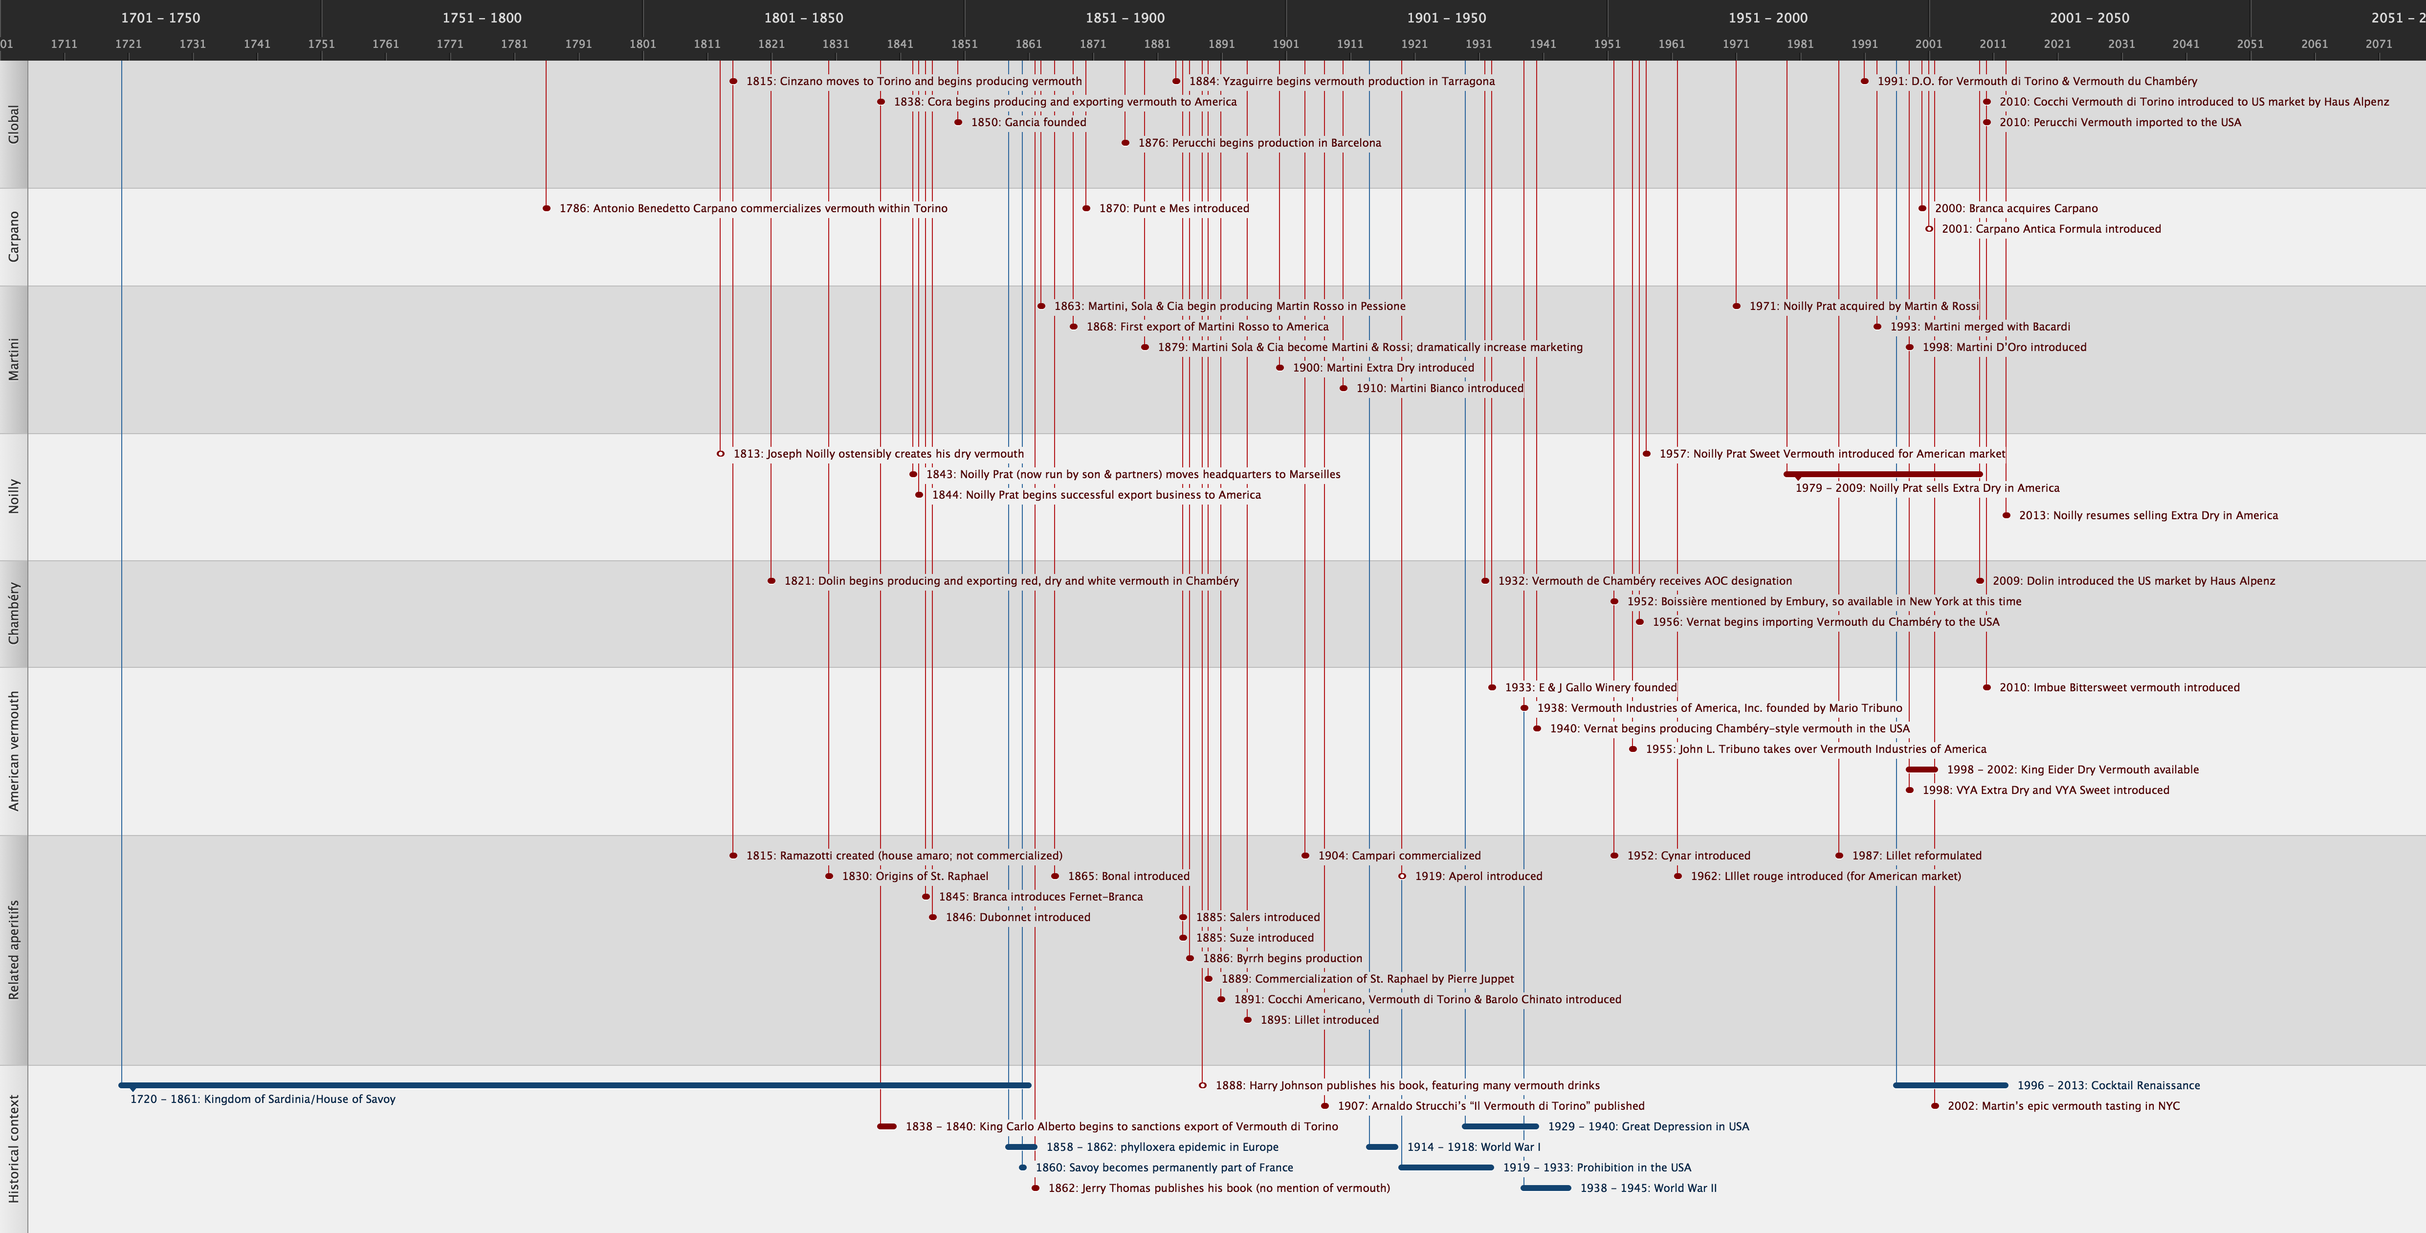
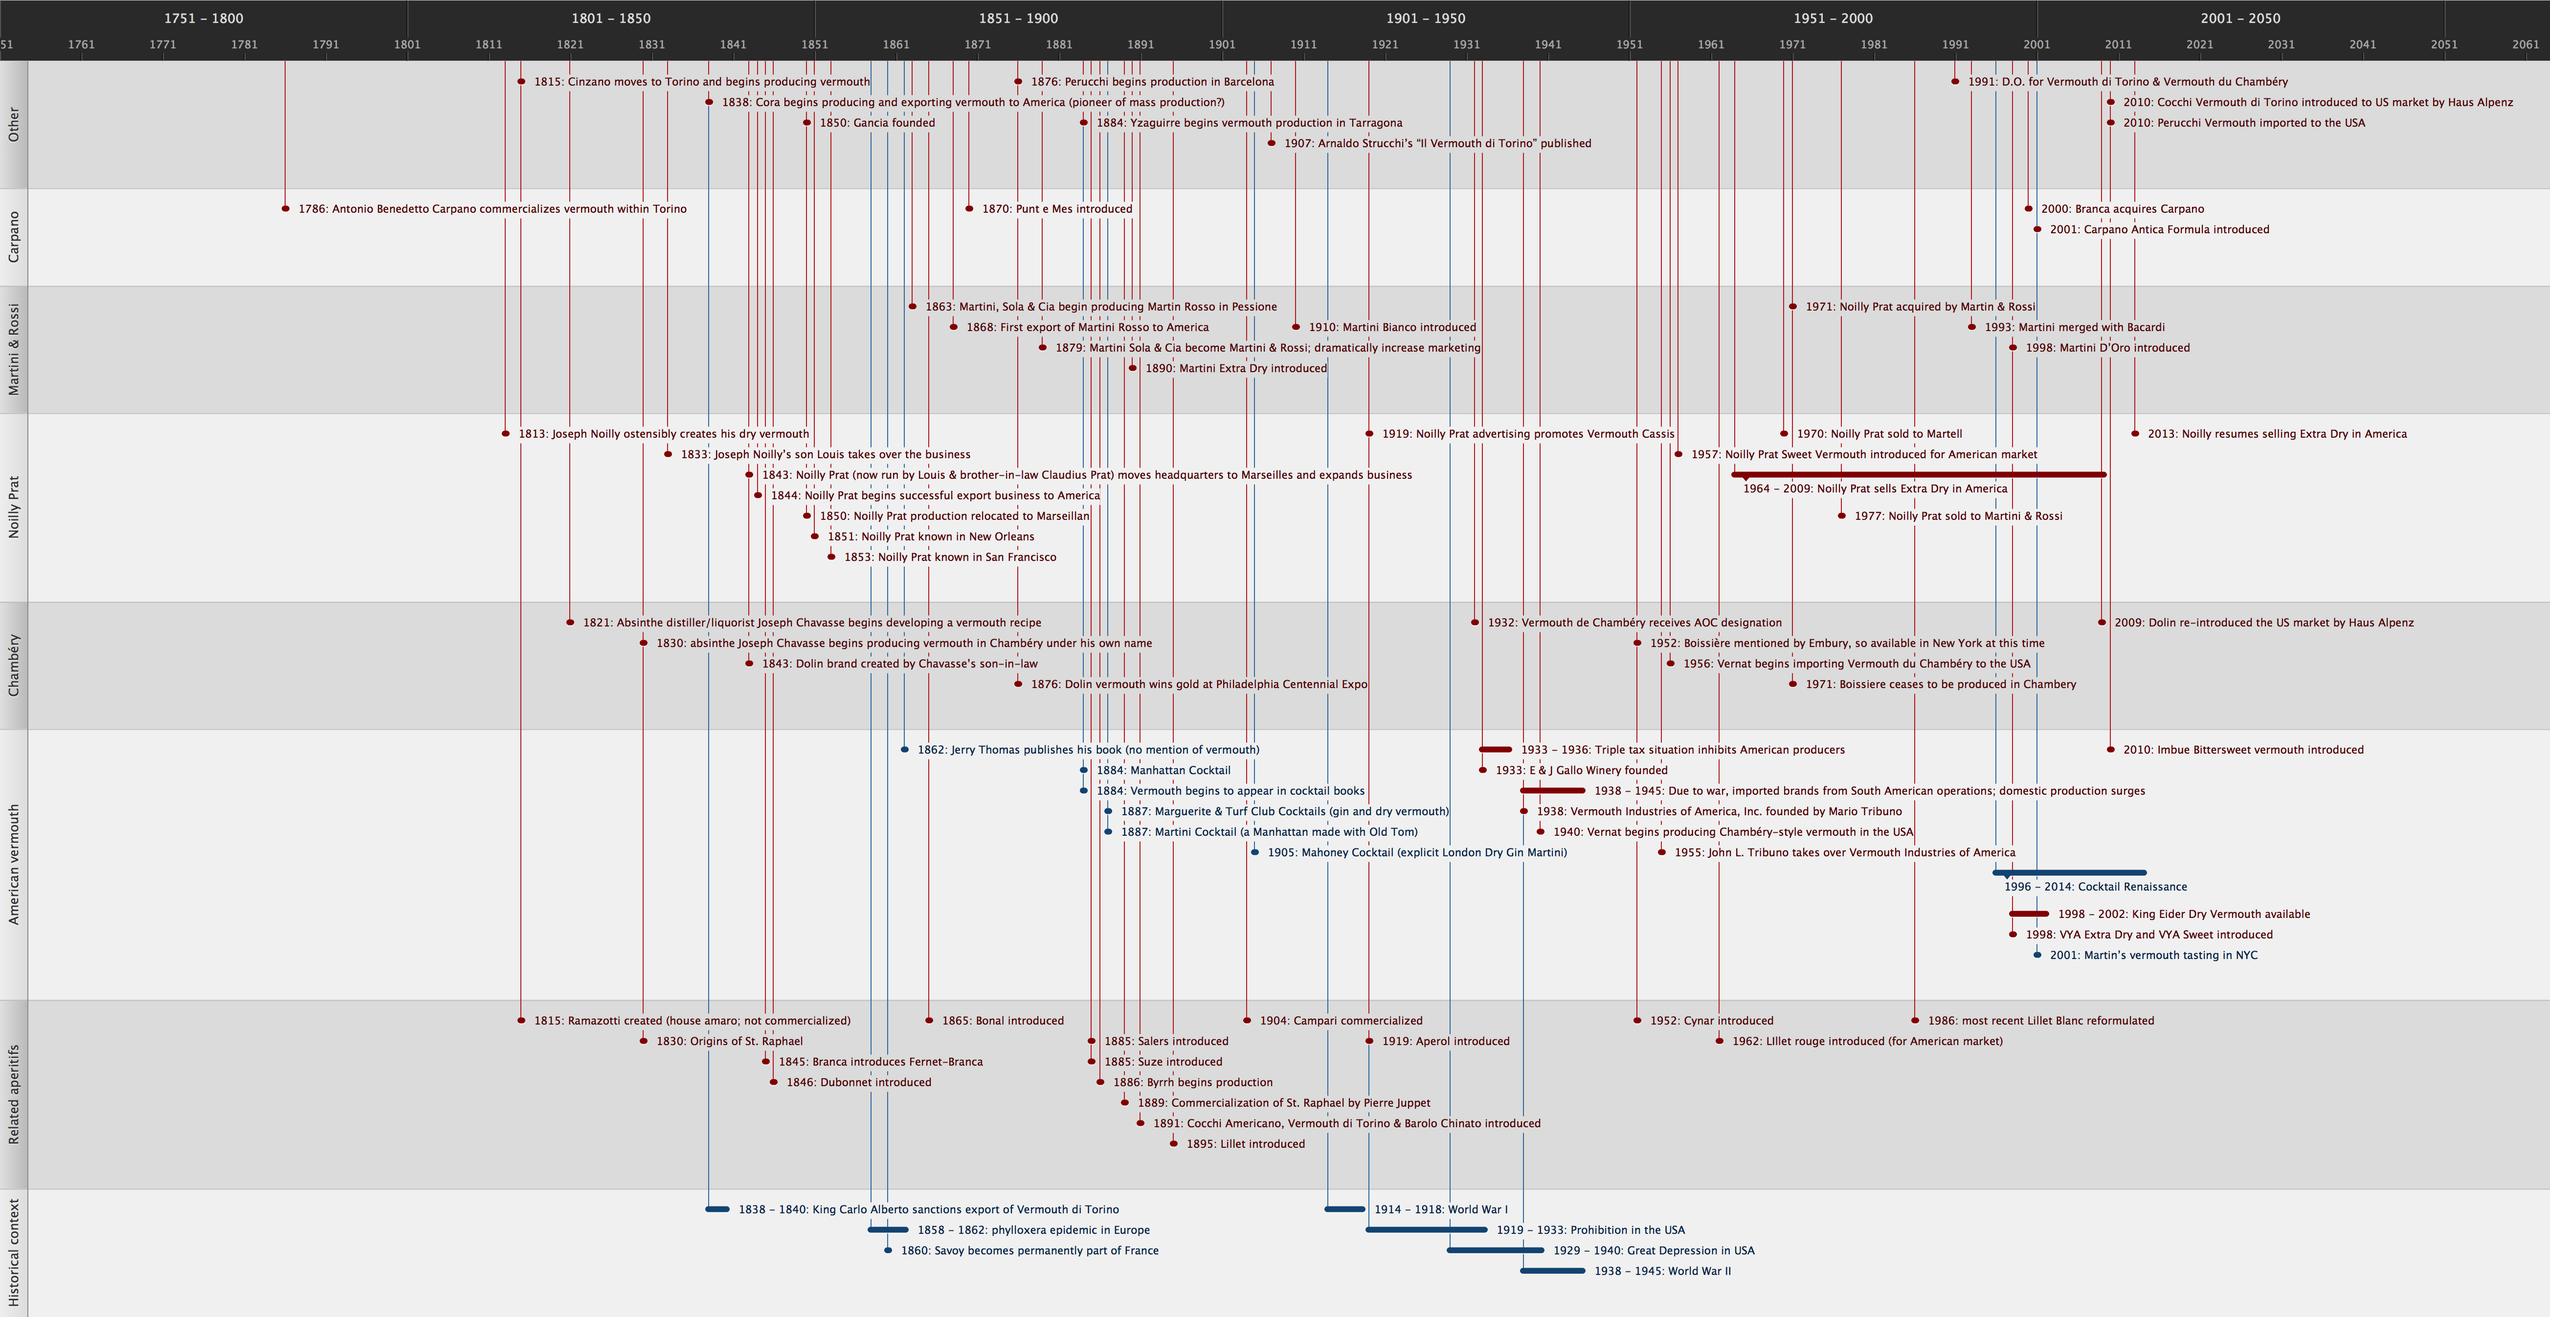
update

diff --git a/index.html b/index.html
@@ -39,21 +39,6 @@
 </div>
 <h1>Vermouth 101</h1>
 <section class="hyphenate">
-
-<h2>Preface, April 2014</h2>
-<p>When I started vermouth101.com four years ago, the vermouth market was different than today. After many years of having only a small, static selection of products to choose from, we’d just been blessed with our first handful of new and revived products from Europe. Things were getting interesting and there was much consumer education to do. Hence, Vermouth 101. </p>
-
-<p>Today, in 2014, we find ourselves in a “vermouth bubble”. New vermouths—and <em>vermouth-like</em> products—have inundated the market from Europe, the US and other parts of the world. (This year, Spanish vermouths seem to particularly be on the rise.) I’ll be adding listings as time allows. </p>
-
-<p>Interim guidance: Some new products are excellent. Some aren’t. Some are pleasant or even delicious, but arguably aren’t vermouth, despite their label. Some are downright strange. Many are quite pricey. <strong>Caveat emptor.</strong> Many newer arrivals will be short-lived, because the market will simply not be able to support this many products.</p>
-
-<p>If you’re just getting started understanding vermouth, please begin with the old, relatively inexpensive, mainstream products (Martini, Dolin, Noilly Prat, Carpano). These long-standing brands produce the benchmark products and you should know them before spending money on curiosities.</p>
-
-<p>—Martin</p>
-
-
-</section>
-<section class="hyphenate">
 	<header>
     	<h2 id="introduction">Introduction</h2>
         </header>
@@ -66,11 +51,19 @@
     <p>To understand vermouth, one first must understand <strong>aperitif wines</strong>. <em>Aperitif</em> derives from the Latin <em>aperire</em>, which is the verb “to open,” in the sense of opening up the appetite. All true aperitifs carry a bittersweet character that stimulates the production of gastric juices and promotes appetite.</p>
     <p>Aperitif wines are <em>aromatized</em> wines. <em>Aromatized</em> means that the wine has been infused with botanicals that add flavor and color. The aperitif wine category includes all vermouths, quinquinas, americanos, and an smattering of other proprietary formula wine products.</p>
     <figure><img src="images/wine categories.jpg" width="570" height="340" alt="types of wine"><figcaption>Aperitif wines</figcaption></figure>
-    <p>Vermouth, quinquina and americano are also <em>fortified</em> wines. <em>Fortified</em> means the alcohol percentage of the wine has been raised through the addition of spirits (a fairly neutral grape brandy is ideal in most cases). Almost all these wines have a white wine or <em>mistelle</em> base. Mistelle is the result of adding alcohol to the juice of crushed grapes rather than fermenting them to produce alcohol. The mistelle approach yeilds a sweeter base (because the fructose has not been converted to alcohol) and may lend a more “fresh fruit” characteristic to some products. All but a handful of red/dark/opaque aperitif wines achieve their coloration through other ingredients rather than the wine itself, namely caramel color (burnt sugar).</p>
+    <p>Vermouth, quinquina and americano are also <em>fortified</em> wines. <em>Fortified</em> means the alcohol percentage of the wine has been raised through the addition of spirits (a fairly neutral grape brandy is ideal in most cases). Almost all these wines have a white wine or <em>mistelle</em> base. Mistelle is the result of adding alcohol to the juice of crushed grapes rather than fermenting them to produce alcohol. The mistelle approach yields a sweeter base (because the fructose has not been converted to alcohol) and may lend a more “fresh fruit” characteristic to some products. All but a handful of red/dark/opaque aperitif wines achieve their coloration through other ingredients rather than the wine itself, namely caramel color (burnt sugar).</p>
+
+    <p>Geographically, The cradle of vermouth is the ethnically Italian Piemonte and ethnically French Savoy regions, which, in the 18th Century comprised the mainland territory of the Kingdom of Sardinia.</p>
+    <figure><img src="gfx/map.sardinia.jpg" width="700" alt="map of Kingdom of Sardinia" />
+    <figcaption>Europe by Goodrich, 1841 map courtesy of <a href="http://murrayhudson.com">murrayhudson.com</a>, used with permission</figcaption></figure>
+    <p>In addition to economic ties, these regions shared the local wine production and the rich botanical diversity of the Alpine foothills necessary to produce vermouth and related beverages. (By the 1861, the Kingdom of Sardinia had gobbled up the rest of the peninsula to create what we know today as Italy, losing the Savoy region permanently to France by treaty.)</p>
+
 	<aside class="right">For more about the archaeology of medicinal alcohol, see Patrick E. McGovern’s “Uncorking the Past” (University of California Press, 2009). For a cross-cultural survey of medicinal botanicals and recipes for alcoholic folk remedies, see Stephen Buhner’s “Sacred and Herbal Healing Beers” (Siris Books, 1998).</aside>
-    <p>In 18th Century Italy, France and Spain—all lands in which the Romans promulgated winemaking centuries before—commercial aperitif production emerged with a focus on craft and consistency. Within these products is the confluence of two imperatives: the flavoring of local wines to make them more commercially valuable and the ancient trade in folk medicines and tonics. These wines are delicious and packed with medicinal botanicals (now enjoyed for their flavors and appetite-enhancing effects rather than as cures). Traditionally, these products were named for the entrepreneurs that created them. Today, several of these names are amongst the greatest brands in this history of spirits.</p>
+
+    <p>The aperitif wines of this area evolved from two imperatives: the flavoring of local wines to make them more commercially valuable and the ancient trade in folk medicines and tonics. These wines are delicious and packed with medicinal botanicals (now enjoyed for their flavors and appetite-enhancing effects rather than as cures).</p>
+    <p> Large scale commercial aperitif production emerged in the 1830s with a focus on craft and consistency and an eye toward export markets. The major ports of Marsielles, Genoa and Venice played key roles for the importation of exotic botanicals (spice trade) and the export of product to new markets, especially the Americas. Traditionally, these products were named for the entrepreneurs that created them. Today, several of these names are amongst the greatest brands in this history of spirits.</p>
     <figure><img src="images/map.aperitif-producers.jpg" width="960" height="547" alt="map of aperitif wine producers"><figcaption>Map showing production of some notable aperitif wine brands (many brands not shown)</figcaption></figure>
-    <p>Aperitif wines are relatively low in alcohol content when compared to other spirits, but rather higher than straight wine. Aperitif wines are comparable strength-wise to non-aperitif fortified wines like Port, Madeira, or Sherry. Also, like other fortified wines, aperitif wines are typically enjoyed in smaller servings than straight wine (perhaps 2-3 oz).</p>
+    <p>Aperitif wines are relatively low in alcohol content when compared to other spirits, but a bit higher than straight wine. Aperitif wines are comparable strength-wise to non-aperitif fortified wines like Port, Madeira, or Sherry. Also, like other fortified wines, aperitif wines are typically enjoyed in smaller servings than straight wine (perhaps 2-3 oz).</p>
     <figure>
     <table>
     	<caption>Classes of beverage by alcohol/vol</caption>
@@ -119,7 +112,13 @@
         <h2 id="vermouth">Vermouth</h2>
     </header>
     <aside class="right"><a href="images/carpano-label.jpg"><img src="images/Carpano-label-small.png" width="180" height="206" alt="vintage carpano vermuth label" class="jacket"></a><br>Vintage label for Carpano Vermuth (<a href="images/carpano-label.jpg">click</a> for larger version)</aside>
-    <p>The word “vermouth” derived from the German word for “wormwood”, which was once one of vermouth’s primary infused botanicals. Some vermouths still employ a little wormwood. Vermouth—as a commercial product—originated in the region around Turin, Italy in the 18th Century as a moderately sweet, herbaceous, dark red or brown bottled beverage. Shortly thereafter, drier styles emerged from Chambéry (Savoy) and Marseilles in colorless or straw-colored form. Also,  a blanc (white) sweet style, emerged from Chambéry.</p>
+    <p>The word “vermouth” derived from the German word for “wormwood”, which was once one of vermouth’s primary infused botanicals. Some vermouths still employ a little wormwood. Vermouth—as a commercial product—originated in the region around Turin, Italy in the 18th Century as a moderately sweet, herbaceous, dark red or brown bottled beverage. Shortly thereafter, lighter, drier styles emerged from Chambéry (Savoy) and Marseilles in colorless or straw-colored form. Also, a blanc (white) sweet style, emerged from Chambéry.</p>
+    <aside>
+<h3>Vermouth Timeline</h3>
+<a href="timeline.html"><img src="images/thumb.timeline.png" width="180" height="180" alt="timeline thumbnail" /></a>
+<p><a href="timeline.html">Click here</a> to view our historical timeline. (A work in progress.)</p>
+</aside>
+
     <p>In the United States, red (rosso, rouge) vermouth imported from Italy became wildly popular in the 1880s, and ever since, this “Italian” vermouth has been strongly associated with the <a href="mixology.html#manhattan">Manhattan cocktail</a>. By contrast, Europeans commonly sip this aperitif neat or over a little ice. The dry style achieved similar popularity in the US a few years later, becoming strongly associated with the <a href="mixology.html#martini">Martini cocktail</a>. Dry vermouth, especially that in the Marseilles style, also has a strong tradition in the regional kitchen as a cooking ingredient, and it makes a particularly nice alternative to white wine in pan sauces. The blanc style never enjoyed as much success in the US market but interest is justifiably growing.</p>
     <p>These same regions have historically produced other styles of vermouth in the past that haven’t survived. Two that have, both from Torino, are <em>vermouth alla vaniglia</em> (vermouth with vanilla) and <em>vermouth con bitter</em> (vermouth with extra bitters). Various new contemporary styles also can be found. What some call “Western Dry”—a quasi-style from California—is already fairly well established. Other new ideas, such as rosé-based vermouth, are just testing the market.</p>
     <figure><img src="images/vermouth tree.jpg" width="507" height="458" alt="types of wine"><figcaption>Vermouth Regions, Styles, Examples</figcaption></figure>

diff --git a/timeline.html b/timeline.html
@@ -29,39 +29,29 @@
 				<li id="navmix"><a href="mixology.html">Mixed Drinks</a></li>
 			</ul>
 		</nav>
-		<div id="primaryad"><a href="http://mixologytech.com/mybar/index.html"><img src="gfx/ad-mybar-143.png" width="143" height="230" alt="My Bar for iPhone and iPod Touch" /></a>
-		</div>
 
 		<h1>Timeline of Vermouth</h1>
 
 		<section class="hyphenate">
 			<header>
 
-				<h2 id="introduction">Introduction</h2>
-
+				<h2 id="introduction">An experiment</h2>
+				<p>In 2013, in an attempt to get a better grasp on the details of vermouth’s history, I began constructing a timeline with every credible date I could lay hands on. The timeline below is a snapshot of where I am as of June 6, 2014.</p>
+				<p>As wonderful—and occasionally handy—as all this data is, there’s far more of the story in what this timelines doesn’t show. The events herein sketch out only the vaguest of arcs. Moreover, huge factors, such as the role played by wine negociants, are entirely missing the picture.</p>
+				<p>In other words, take this timeline <em>with a grain of salt</em>.</p>
+				<p>My intention is to update the timeline periodically. If you have any additions or corrections, please <a href="mailto:martin@mixologytech.com">let me know</a>.</p>
+				<p><em>—Martin</em></p>
 			</header>
-			<p>blah</p>
+		</section>
+		<section style="height:1600px;">
+			<div style="position: absolute; left:0;width:100%;">
+			<div style="position: absolute; background: url(images/timeline.png); background-position:0 -62px;background-size:2607px 1346px;width: 29px;left:0;top:62px;height:1284px;z-index:99;"></div>
+			<div style="overflow:scroll;-webkit-overflow-scrolling: touch;overflow-y:hidden;">
+				<img src="images/timeline.png" height="1346" width="2607" alt="timeline" />
+			</div>
+			</div>
 		</section>
 		<section>
-			<div style="position: absolute; left:0;width:100%;">
-			<div style="position: absolute; background: url(images/timeline.png); background-position:0 -62px;background-size:2481px 1261px;width: 29px;left:0;top:62px;height:1199px;z-index:99;"></div>
-			<div style="overflow:scroll;-webkit-overflow-scrolling: touch;overflow-y:hidden;">
-				<img src="images/timeline.png" height="1261" width="2481" alt="timeline" />
-			</div>
-			</div>
-		</section>
-		<section class="hyphenate" style="margin-top:1400px;">
-			<div class="center"><a href="http://chanticleersociety.org/"></a>
-			</div>
-		</section>
-		<section class="hyphenate">
-
-			<h2>More</h2>
-
-			<p><a href="mixology.html">Mixed drinks featuring Vermouth &amp; Quinquina</a></p>
-			<p><a href="vermouth-styles.html">Vermouths by Style</a></p>
-			<p><a href="vermouths.html">Vermouths by Brand</a></p>
-			<p><a href="quinquinas.html">Quinquina by Brand</a></p>
 		</section>
 	</div>
 	<hr />

diff --git a/quinquinas.html b/quinquinas.html
@@ -107,8 +107,7 @@
     <h2>Lillet</h2>
     <p class="pronguide">(lee-LAY)</p>
     <p>Produced in Podensac, Bordeaux, France, from 1887. </p>
-    <p>Lillet’s definitive product is generally called Lillet Blanc, but is usually labeled just “Lillet” and was once sold in some markets in the distant past as “Kina Lillet”. Today’s Lillet Blanc is amongst the mildest quinquinas, botanically speaking. It contains quinine, but only a hint, and no other botanicals.</p>
-    <p>Considerable confusion and doubt persists over whether the product has changed significantly since the days “Kina Lillet” appeared in cocktail recipes. The official line from the producers is that the product has not changed, and that cocktails specifying “Kina Lillet” are correctly made with today’s Lillet Blanc.</p>
+    <p>Lillet’s primary product is generally called Lillet Blanc, but is usually labeled just “Lillet”. Various formulas of Lillet have existed at different times under different names, including “Amer-Kina”, “Kina Lillet”, “Lillet Français” and “Lillet Dry Export”, all were relatively sweeter and bitterer than today’s product, which dates to around 1986. Today’s Lillet Blanc is amongst the mildest quinquinas, botanically speaking. It contains quinine, but only a hint, and no other botanicals.</p>
     <p>A deep red “Rouge” expression, a “vintage” expression and a rosé expression are also available in some markets.</p>
     <ul>
         <li>Blanc</li>
